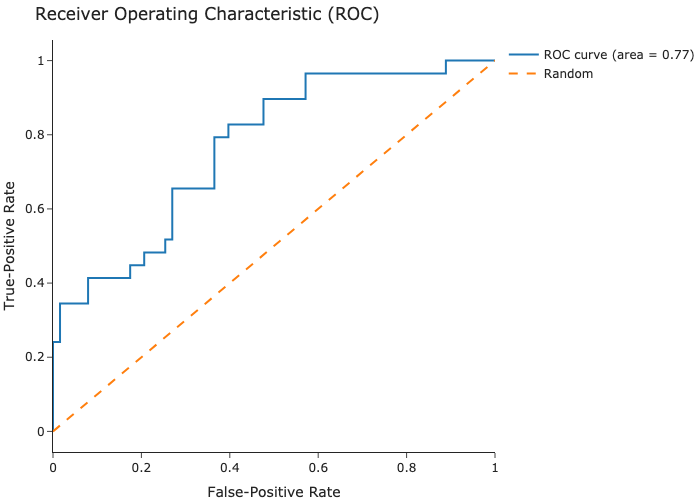
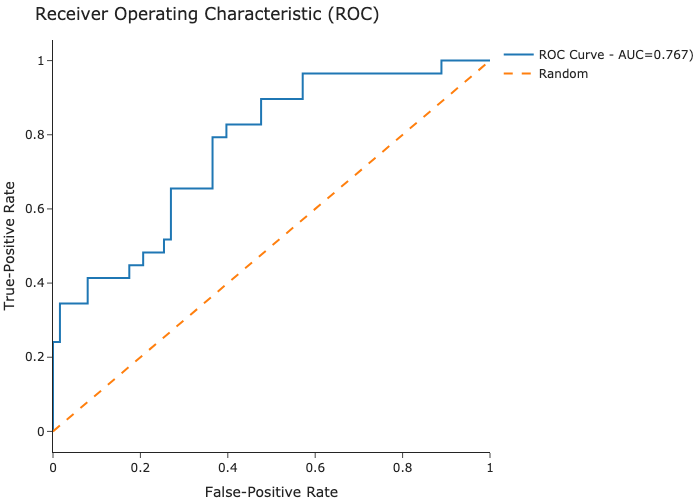
FINAL!

diff --git a/gradient_descent_investigation.py b/gradient_descent_investigation.py
@@ -1,3 +1,5 @@
+import math
+
 import numpy as np
 import pandas as pd
 from typing import Tuple, List, Callable, Type
@@ -105,10 +107,10 @@ def compare_fixed_learning_rates(init: np.ndarray = np.array([np.sqrt(2), np.e /
     print('                       Compare Fixed Learning Rates                      ')
     print('-------------------------------------------------------------------------')
 
-    print('\n> Creating GD plots for l1 and l2:')
     for i in {1, 2}:
         # Select module (L1 and then L2)
         model = L1 if i == 1 else L2
+        print(f'\n> Creating GD plots for L{i}:')
         # Dictionary to store recorded values and weights per eta
         results = dict()
 
@@ -130,7 +132,7 @@ def compare_fixed_learning_rates(init: np.ndarray = np.array([np.sqrt(2), np.e /
             file_path = f"plots/GD_L{i}_eta_{eta}.png"
             fig.write_image(file_path)
 
-        print(f"    > Creating plot for convergent rate with L{i}.\n")
+        print(f"  > Creating plot for convergent rate with L{i}.")
         # Plot algorithm's convergence for the different values of eta
         x_title = "Gradient-Descent iteration"
         y_title = "Norm"
@@ -140,15 +142,22 @@ def compare_fixed_learning_rates(init: np.ndarray = np.array([np.sqrt(2), np.e /
         mode = "lines"
 
         # Add traces for each learning rate's convergence
+        min_loss = math.inf
         for eta, (v, _) in results.items():
             name = rf"$\eta={eta}$"
             x_scatter = list(range(len(v)))
             go_scatter = go.Scatter(x=x_scatter, y=v, mode=mode, name=name)
             fig.add_trace(go_scatter)
 
+            # TODO
+            min_loss = min(min_loss, min(v))
+
         # Generate the convergence plot image
         file_path = f"plots/GD_L{i}_fixed_rate_convergence.png"
         fig.write_image(file_path)
+
+        # TODO
+        print(f"  > Lowest loss achieved when minimizing L{i}: {min_loss}.")
 
 
 def load_data(path: str = "SAheart.data", train_portion: float = .8) -> \
@@ -184,6 +193,7 @@ def load_data(path: str = "SAheart.data", train_portion: float = .8) -> \
 
 
 def fit_logistic_regression():
+    print()
     print('-------------------------------------------------------------------------')
     print('                         Fit Logistic Regression                         ')
     print('-------------------------------------------------------------------------')
@@ -242,7 +252,7 @@ def fit_logistic_regression():
         print(f'  > penalty: L1 | lambda: {lam} | train error: {train_e} | test error: {test_e}.')
 
     # Plot training and validation errors for different lambda values
-    title = r"$\text{Train and Validation errors (averaged over the k-folds)}$"
+    title = r"$\text{Train and Validation Errors for Different Lambdas (Averaged over k-Folds)}$"
     xaxis = dict(title=r"$\lambda$", type="log")
     yaxis_title = r"$\text{Error Value}$"
     fig_layout = go.Layout(title=title, xaxis=xaxis, yaxis_title=yaxis_title)
@@ -266,12 +276,14 @@ def fit_logistic_regression():
 
     # Print the optimal regularization parameter and the test error of the final model
     print(f'\n> Optimal regularization parameter: {lam_opt}.')
-    print(f'  > Model test error with this parameter: {round(model.loss(X_test.values, y_test.values), 2)}.')
+    print(
+        f'  > Model test error with this parameter: {round(model.loss(X_test.values, y_test.values), 2)}.')
 
 
 def plot_ROC_curve(fpr, roc_auc, tpr):
     fig = go.Figure()
-    fig.add_trace(go.Scatter(x=fpr, y=tpr, mode='lines', name=f'ROC curve (area = {roc_auc:.2f})'))
+    name = f'ROC Curve - AUC={roc_auc:.3f})'
+    fig.add_trace(go.Scatter(x=fpr, y=tpr, mode='lines', name=name))
 
     # Add a dashed diagonal line to represent a random classifier
     line_dict = dict(dash='dash')
